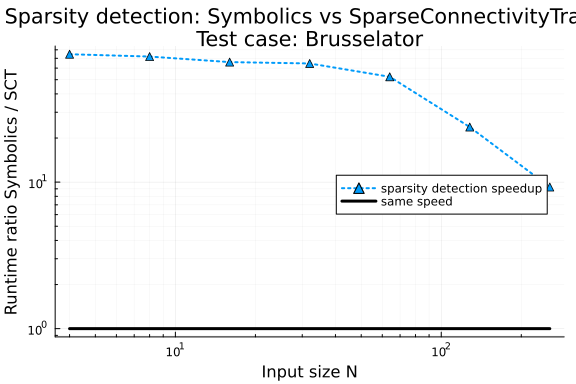
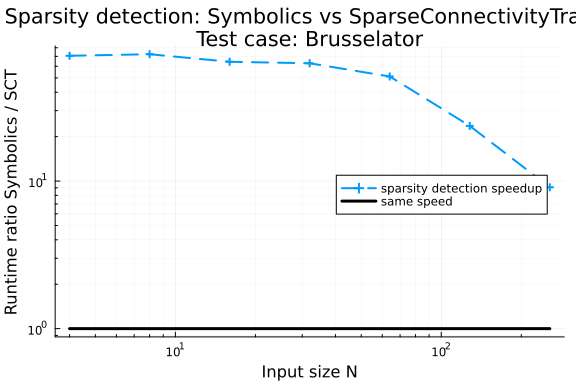
Automatic build\nPublished by build of: https://github.com/SciML/SciMLBenchmarks.jl/commit/4a18bd4e2fda2e93585195e875d2511584492c0e

diff --git a/markdown/AutomaticDifferentiationSparse/ManualLoopDiffusionSparseAD.md b/markdown/AutomaticDifferentiationSparse/ManualLoopDiffusionSparseAD.md
@@ -5,6 +5,7 @@ title: "Diffusion operator loop sparse AD benchmarks"
 ```julia
 using DifferentiationInterface
 using DifferentiationInterfaceTest
+using Chairmarks, DataFrames
 using LinearAlgebra
 using SparseConnectivityTracer: TracerSparsityDetector
 using SparseMatrixColorings
@@ -115,12 +116,13 @@ scenarios = [Scenario{:jacobian, :out}(Diffusion, u; res1 = DDiffusion(u))];
 ## Run Benchmarks
 
 ```julia
-df = benchmark_differentiation(bcks, scenarios)
+df = DataFrame(benchmark_differentiation(bcks, scenarios))
 table = PrettyTables.pretty_table(
     String,
     df;
     backend = :markdown,
-    formatters = [PrettyTables.fmt__printf("%.1e")]
+    column_labels = names(df),
+    formatters = [PrettyTables.fmt__printf("%.1e")],
 )
 
 Markdown.parse(table)
@@ -138,25 +140,25 @@ Testing benchmarks
                                                                            
                                                                            
                                                                   |   12   
-  12  1m50.6s
+  12  1m52.3s
   ADTypes.AutoEnzyme(mode=EnzymeCore.ReverseMode{false, false, false, Enzym
 eCore.FFIABI, false, false}())                                             
                                                                            
                                                                            
                                                                   |    2   
-   2    25.2s
+   2    28.8s
   ADTypes.AutoEnzyme(mode=EnzymeCore.ForwardMode{false, EnzymeCore.FFIABI, 
 false, false, false}())                                                    
                                                                            
                                                                            
                                                                   |    2   
-   2    30.8s
+   2    30.6s
   ADTypes.AutoMooncake()                                                   
                                                                            
                                                                            
                                                                            
                                                                   |    2   
-   2    42.1s
+   2    40.7s
   ADTypes.AutoForwardDiff()                                                
                                                                            
                                                                            
@@ -168,29 +170,29 @@ SparseConnectivityTracer.TracerSparsityDetector(), coloring_algorithm=Spars
 eMatrixColorings.GreedyColoringAlgorithm{:direct, 1, Tuple{SparseMatrixColo
 rings.NaturalOrder}}((SparseMatrixColorings.NaturalOrder(),), false))      
                                                                   |    2   
-   2     4.3s
+   2     4.2s
   ADTypes.AutoSparse(dense_ad=ADTypes.AutoEnzyme(mode=EnzymeCore.ForwardMod
 e{false, EnzymeCore.FFIABI, false, false, false}()), sparsity_detector=Spar
 seConnectivityTracer.TracerSparsityDetector(), coloring_algorithm=SparseMat
 rixColorings.GreedyColoringAlgorithm{:direct, 1, Tuple{SparseMatrixColoring
 s.NaturalOrder}}((SparseMatrixColorings.NaturalOrder(),), false)) |    2   
-   2     3.4s
+   2     3.3s
 ```
 
 
 
 |                                                                                                                                                                                                                                **backend** |                                                            **scenario** |       **operator** | **prepared** | **calls** | **samples** | **evals** | **time** | **allocs** | **bytes** | **gc_fraction** | **compile_fraction** |
 | ------------------------------------------------------------------------------------------------------------------------------------------------------------------------------------------------------------------------------------------:| -----------------------------------------------------------------------:| ------------------:| ------------:| ---------:| -----------:| ---------:| --------:| ----------:| ---------:| ---------------:| --------------------:|
-|                                                                                                                                                                  AutoEnzyme(mode=ReverseMode{false, false, false, FFIABI, false, false}()) | Scenario{:jacobian,:out} Diffusion : Vector{Float64} -> Vector{Float64} | value_and_jacobian |      1.0e+00 |   6.4e+01 |     1.0e+01 |   1.0e+00 |  9.2e-02 |    2.3e+03 |   2.8e+08 |         1.3e-02 |              0.0e+00 |
-|                                                                                                                                                                  AutoEnzyme(mode=ReverseMode{false, false, false, FFIABI, false, false}()) | Scenario{:jacobian,:out} Diffusion : Vector{Float64} -> Vector{Float64} |           jacobian |      1.0e+00 |   6.3e+01 |     1.1e+01 |   1.0e+00 |  9.0e-02 |    2.3e+03 |   2.8e+08 |         1.3e-02 |              0.0e+00 |
-|                                                                                                                                                                         AutoEnzyme(mode=ForwardMode{false, FFIABI, false, false, false}()) | Scenario{:jacobian,:out} Diffusion : Vector{Float64} -> Vector{Float64} | value_and_jacobian |      1.0e+00 |   6.3e+01 |     2.8e+01 |   1.0e+00 |  8.9e-03 |    3.2e+03 |   1.8e+07 |         0.0e+00 |              0.0e+00 |
-|                                                                                                                                                                         AutoEnzyme(mode=ForwardMode{false, FFIABI, false, false, false}()) | Scenario{:jacobian,:out} Diffusion : Vector{Float64} -> Vector{Float64} |           jacobian |      1.0e+00 |   6.3e+01 |     1.1e+02 |   1.0e+00 |  7.3e-03 |    3.2e+03 |   1.8e+07 |         0.0e+00 |              0.0e+00 |
-|                                                                                                                                                                                                                             AutoMooncake() | Scenario{:jacobian,:out} Diffusion : Vector{Float64} -> Vector{Float64} | value_and_jacobian |      1.0e+00 |   1.0e+00 |     2.0e+01 |   1.0e+00 |  4.9e-02 |    7.0e+03 |   3.3e+07 |         0.0e+00 |              0.0e+00 |
+|                                                                                                                                                                  AutoEnzyme(mode=ReverseMode{false, false, false, FFIABI, false, false}()) | Scenario{:jacobian,:out} Diffusion : Vector{Float64} -> Vector{Float64} | value_and_jacobian |      1.0e+00 |   6.4e+01 |     9.0e+00 |   1.0e+00 |  1.1e-01 |    2.3e+03 |   2.8e+08 |         3.1e-02 |              0.0e+00 |
+|                                                                                                                                                                  AutoEnzyme(mode=ReverseMode{false, false, false, FFIABI, false, false}()) | Scenario{:jacobian,:out} Diffusion : Vector{Float64} -> Vector{Float64} |           jacobian |      1.0e+00 |   6.3e+01 |     9.0e+00 |   1.0e+00 |  1.0e-01 |    2.3e+03 |   2.8e+08 |         1.5e-02 |              0.0e+00 |
+|                                                                                                                                                                         AutoEnzyme(mode=ForwardMode{false, FFIABI, false, false, false}()) | Scenario{:jacobian,:out} Diffusion : Vector{Float64} -> Vector{Float64} | value_and_jacobian |      1.0e+00 |   6.3e+01 |     8.7e+01 |   1.0e+00 |  7.5e-03 |    3.2e+03 |   1.8e+07 |         0.0e+00 |              0.0e+00 |
+|                                                                                                                                                                         AutoEnzyme(mode=ForwardMode{false, FFIABI, false, false, false}()) | Scenario{:jacobian,:out} Diffusion : Vector{Float64} -> Vector{Float64} |           jacobian |      1.0e+00 |   6.3e+01 |     1.0e+02 |   1.0e+00 |  7.8e-03 |    3.2e+03 |   1.8e+07 |         0.0e+00 |              0.0e+00 |
+|                                                                                                                                                                                                                             AutoMooncake() | Scenario{:jacobian,:out} Diffusion : Vector{Float64} -> Vector{Float64} | value_and_jacobian |      1.0e+00 |   1.0e+00 |     1.9e+01 |   1.0e+00 |  4.9e-02 |    7.0e+03 |   3.3e+07 |         0.0e+00 |              0.0e+00 |
 |                                                                                                                                                                                                                             AutoMooncake() | Scenario{:jacobian,:out} Diffusion : Vector{Float64} -> Vector{Float64} |           jacobian |      1.0e+00 |   0.0e+00 |     2.0e+01 |   1.0e+00 |  4.9e-02 |    7.0e+03 |   3.3e+07 |         0.0e+00 |              0.0e+00 |
 |                                                                                                                                                                                                                          AutoForwardDiff() | Scenario{:jacobian,:out} Diffusion : Vector{Float64} -> Vector{Float64} | value_and_jacobian |      1.0e+00 |   8.5e+01 |     1.7e+02 |   1.0e+00 |  5.0e-03 |    1.7e+02 |   1.7e+07 |         0.0e+00 |              0.0e+00 |
 |                                                                                                                                                                                                                          AutoForwardDiff() | Scenario{:jacobian,:out} Diffusion : Vector{Float64} -> Vector{Float64} |           jacobian |      1.0e+00 |   8.4e+01 |     1.8e+02 |   1.0e+00 |  5.0e-03 |    1.7e+02 |   1.7e+07 |         0.0e+00 |              0.0e+00 |
-|                                                  AutoSparse(dense_ad=AutoForwardDiff(), sparsity_detector=TracerSparsityDetector(), coloring_algorithm=GreedyColoringAlgorithm{:direct, 1, Tuple{NaturalOrder}}((NaturalOrder(),), false)) | Scenario{:jacobian,:out} Diffusion : Vector{Float64} -> Vector{Float64} | value_and_jacobian |      1.0e+00 |   2.0e+00 |     3.6e+04 |   1.0e+00 |  1.7e-05 |    8.0e+00 |   9.6e+04 |         0.0e+00 |              0.0e+00 |
+|                                                  AutoSparse(dense_ad=AutoForwardDiff(), sparsity_detector=TracerSparsityDetector(), coloring_algorithm=GreedyColoringAlgorithm{:direct, 1, Tuple{NaturalOrder}}((NaturalOrder(),), false)) | Scenario{:jacobian,:out} Diffusion : Vector{Float64} -> Vector{Float64} | value_and_jacobian |      1.0e+00 |   2.0e+00 |     3.5e+04 |   1.0e+00 |  1.9e-05 |    8.0e+00 |   9.6e+04 |         0.0e+00 |              0.0e+00 |
 |                                                  AutoSparse(dense_ad=AutoForwardDiff(), sparsity_detector=TracerSparsityDetector(), coloring_algorithm=GreedyColoringAlgorithm{:direct, 1, Tuple{NaturalOrder}}((NaturalOrder(),), false)) | Scenario{:jacobian,:out} Diffusion : Vector{Float64} -> Vector{Float64} |           jacobian |      1.0e+00 |   1.0e+00 |     4.0e+04 |   1.0e+00 |  1.6e-05 |    7.0e+00 |   8.8e+04 |         0.0e+00 |              0.0e+00 |
-| AutoSparse(dense_ad=AutoEnzyme(mode=ForwardMode{false, FFIABI, false, false, false}()), sparsity_detector=TracerSparsityDetector(), coloring_algorithm=GreedyColoringAlgorithm{:direct, 1, Tuple{NaturalOrder}}((NaturalOrder(),), false)) | Scenario{:jacobian,:out} Diffusion : Vector{Float64} -> Vector{Float64} | value_and_jacobian |      1.0e+00 |   2.0e+00 |     3.8e+04 |   1.0e+00 |  1.4e-05 |    1.0e+01 |   9.7e+04 |         0.0e+00 |              0.0e+00 |
-| AutoSparse(dense_ad=AutoEnzyme(mode=ForwardMode{false, FFIABI, false, false, false}()), sparsity_detector=TracerSparsityDetector(), coloring_algorithm=GreedyColoringAlgorithm{:direct, 1, Tuple{NaturalOrder}}((NaturalOrder(),), false)) | Scenario{:jacobian,:out} Diffusion : Vector{Float64} -> Vector{Float64} |           jacobian |      1.0e+00 |   1.0e+00 |     4.3e+04 |   1.0e+00 |  1.4e-05 |    9.0e+00 |   8.9e+04 |         0.0e+00 |              0.0e+00 |
+| AutoSparse(dense_ad=AutoEnzyme(mode=ForwardMode{false, FFIABI, false, false, false}()), sparsity_detector=TracerSparsityDetector(), coloring_algorithm=GreedyColoringAlgorithm{:direct, 1, Tuple{NaturalOrder}}((NaturalOrder(),), false)) | Scenario{:jacobian,:out} Diffusion : Vector{Float64} -> Vector{Float64} | value_and_jacobian |      1.0e+00 |   2.0e+00 |     4.0e+04 |   1.0e+00 |  1.4e-05 |    1.0e+01 |   9.7e+04 |         0.0e+00 |              0.0e+00 |
+| AutoSparse(dense_ad=AutoEnzyme(mode=ForwardMode{false, FFIABI, false, false, false}()), sparsity_detector=TracerSparsityDetector(), coloring_algorithm=GreedyColoringAlgorithm{:direct, 1, Tuple{NaturalOrder}}((NaturalOrder(),), false)) | Scenario{:jacobian,:out} Diffusion : Vector{Float64} -> Vector{Float64} |           jacobian |      1.0e+00 |   1.0e+00 |     4.6e+04 |   1.0e+00 |  1.3e-05 |    9.0e+00 |   8.9e+04 |         0.0e+00 |              0.0e+00 |
 

diff --git a/markdown/AutomaticDifferentiationSparse/BrusselatorSparseAD.md b/markdown/AutomaticDifferentiationSparse/BrusselatorSparseAD.md
@@ -109,7 +109,7 @@ Test Passed
 
 ```julia
 c1 = ADTypes.column_coloring(S1, GreedyColoringAlgorithm())
-@test length(unique(c1)) > 0
+@test length(unique(c1)) > 0  # basic sanity check
 ```
 
 ```
@@ -134,7 +134,7 @@ J1 = DI.jacobian!(
     brusselator_2d!, similar(x0_32), similar(S1, eltype(x0_32)), prep, backend, x0_32
 )
 
-@test nnz(J1) > 0
+@test nnz(J1) > 0  # basic sanity check
 ```
 
 ```
@@ -347,8 +347,8 @@ let
         N_values,
         td2 ./ td1;
         lw = 2,
-        linestyle = :dot,
-        markershape = :utriangle,
+        linestyle = :auto,
+        markershape = :auto,
         label = "sparsity detection speedup"
     )
     plot!(
